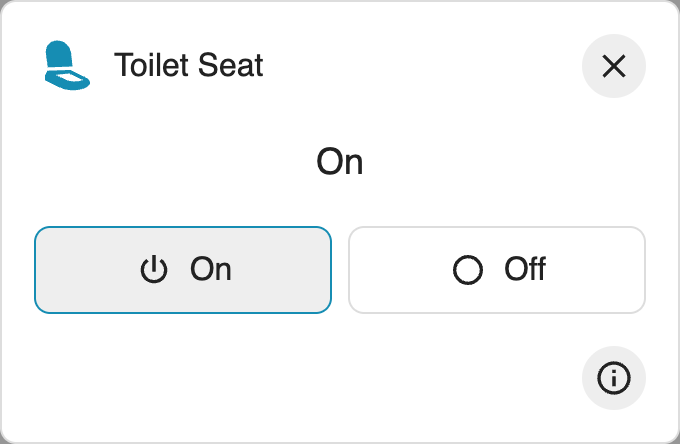
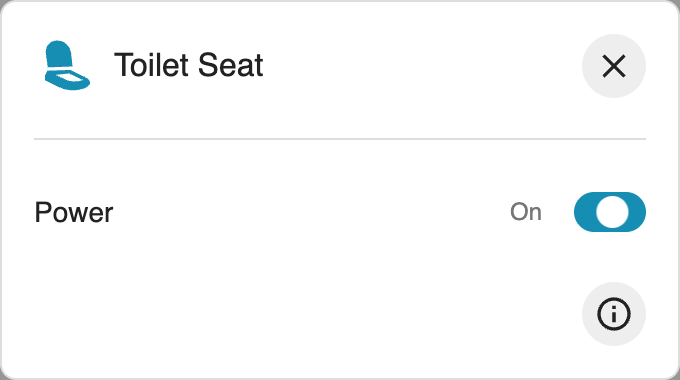
Use compact power-switch details for toilet seat

diff --git a/src/cards/toilet-seat-card.js b/src/cards/toilet-seat-card.js
@@ -14,7 +14,7 @@ class ToiletSeatCard extends HTMLElement {
   state() { return this._hass?.states?.[this.config.entity]?.state; }
   async power(on) {
     const state = this.state();
-    if (typeof on !== "boolean" || !["on", "off", "unknown"].includes(state) || this.pending || !this._hass?.callService) return;
+    if (typeof on !== "boolean" || !["on", "off"].includes(state) || this.pending || !this._hass?.callService) return;
     const entity = this.config.entity;
     this.pending = true; this.error = ""; this.update(); let timer;
     try {
@@ -31,11 +31,10 @@ class ToiletSeatCard extends HTMLElement {
     const status = known ? state === "on" ? "On" : "Off" : state === "unknown" ? "Unknown" : "Unavailable";
     this.shadowRoot.querySelectorAll(".status").forEach(el => { el.textContent = status; });
     this.shadowRoot.querySelectorAll(".device-art").forEach(el => el.classList.toggle("active", state === "on"));
-    for (const button of this.shadowRoot.querySelectorAll("[data-power]")) {
-      button.disabled = !["on", "off", "unknown"].includes(state) || this.pending || !this._hass?.callService;
-      button.setAttribute("aria-pressed", String(known && button.dataset.power === state));
-      button.setAttribute("aria-busy", String(this.pending));
-    }
+    const input = this.shadowRoot.querySelector('[role="switch"]');
+    input.checked = state === "on";
+    input.disabled = !known || this.pending || !this._hass?.callService;
+    input.setAttribute("aria-busy", String(this.pending));
     const error = this.shadowRoot.querySelector('[role="alert"]'); error.textContent = this.error; error.hidden = !this.error;
     this.shadowRoot.querySelector(".more-info").disabled = !this._hass?.states?.[this.config.entity];
   }
@@ -43,14 +42,14 @@ class ToiletSeatCard extends HTMLElement {
     this.shadowRoot.innerHTML = `<style>
       :host{display:block;font-family:var(--paper-font-body1_-_font-family,Roboto,sans-serif);letter-spacing:0;color:var(--primary-text-color,#222)}*{box-sizing:border-box}button{font:inherit;color:inherit;border:0;background:none;cursor:pointer}button:disabled{opacity:.45;cursor:default}button:focus-visible{outline:2px solid var(--primary-color,#03a9f4);outline-offset:-2px}
       .entry{display:flex;align-items:center;gap:12px;width:100%;height:66px;padding:8px 12px;text-align:left;min-width:0;border:1px solid var(--ha-card-border-color,var(--divider-color,#ddd));border-radius:8px;background:var(--ha-card-background,var(--card-background-color,#fff))}.device-art{display:grid;place-items:center;flex-shrink:0;width:32px;height:32px;color:var(--state-icon-color,#999)}.device-art svg{width:28px;height:28px}.device-art.active{color:var(--state-switch-active-color,var(--primary-color,#03a9f4))}.info{flex:1;min-width:0}.name{display:block;font-size:14px;font-weight:500;line-height:16px;white-space:nowrap;overflow:hidden;text-overflow:ellipsis}.status{display:block;font-size:12px;line-height:16px;color:var(--secondary-text-color,#777)}
-      dialog{width:340px;max-width:calc(100vw - 24px);max-height:calc(100dvh - 32px);overflow:auto;border:1px solid var(--divider-color,#ddd);border-radius:8px;padding:16px;background:var(--card-background-color,#fff);color:var(--primary-text-color,#222)}dialog::backdrop{background:#0006}header{display:flex;align-items:center;gap:8px}.title{flex:1;min-width:0;font-size:16px;font-weight:500;overflow-wrap:anywhere}.close,.more-info{width:32px;height:32px;flex-shrink:0;display:grid;place-items:center;border-radius:50%;background:var(--secondary-background-color,#eee)}.detail-status{margin:24px 0;text-align:center;font-size:18px;color:inherit}.power-controls{display:grid;grid-template-columns:1fr 1fr;gap:8px}.power-controls button{display:flex;align-items:center;justify-content:center;gap:8px;min-height:44px;border:1px solid var(--divider-color,#ddd);border-radius:8px}.power-controls button[aria-pressed=true]{background:var(--secondary-background-color,#eee);border-color:var(--primary-color,#03a9f4)}ha-icon{--mdc-icon-size:20px}footer{display:flex;justify-content:flex-end;margin-top:16px}[role=alert]{font-size:12px;color:var(--error-color,#c62828);overflow-wrap:anywhere;margin-top:12px}[hidden]{display:none!important}
-    </style><button class="entry identity" aria-haspopup="dialog"><span class="device-art">${art}</span><span class="info"><span class="name"></span><span class="status"></span></span></button><dialog><header><span class="device-art">${art}</span><span class="title"></span><button class="close" aria-label="Close" title="Close"><ha-icon icon="mdi:close"></ha-icon></button></header><div class="status detail-status"></div><div class="power-controls" role="group" aria-label="Power"><button data-power="on" aria-label="Turn on"><ha-icon icon="mdi:power"></ha-icon>On</button><button data-power="off" aria-label="Turn off"><ha-icon icon="mdi:power-off"></ha-icon>Off</button></div><div role="alert" hidden></div><footer><button class="more-info" aria-label="More information" title="More information"><ha-icon icon="mdi:information-outline"></ha-icon></button></footer></dialog>`;
+      dialog{width:340px;max-width:calc(100vw - 24px);max-height:calc(100dvh - 32px);overflow:auto;border:1px solid var(--divider-color,#ddd);border-radius:8px;padding:16px;background:var(--card-background-color,#fff);color:var(--primary-text-color,#222)}dialog::backdrop{background:#0006}header{display:flex;align-items:center;gap:8px}.title{flex:1;min-width:0;font-size:16px;font-weight:500;overflow-wrap:anywhere}.close,.more-info{width:32px;height:32px;flex-shrink:0;display:grid;place-items:center;border-radius:50%;background:var(--secondary-background-color,#eee)}.power-row{display:flex;align-items:center;gap:16px;min-height:60px;margin-top:20px;padding-top:12px;border-top:1px solid var(--divider-color,#ddd);font-size:14px;cursor:pointer}.power-label{flex:1;min-width:0}.power-row input{appearance:none;position:relative;flex-shrink:0;width:36px;height:20px;border:0;border-radius:10px;background:var(--disabled-color,#aaa);margin:0;cursor:pointer}.power-row input:before{content:"";position:absolute;width:16px;height:16px;left:2px;top:2px;border-radius:50%;background:#fff;transition:transform .15s}.power-row input:checked{background:var(--primary-color,#03a9f4)}.power-row input:checked:before{transform:translateX(16px)}.power-row input:disabled{opacity:.45;cursor:default}.power-row input:focus-visible{outline:2px solid var(--primary-color,#03a9f4);outline-offset:2px}ha-icon{--mdc-icon-size:20px}footer{display:flex;justify-content:flex-end;margin-top:12px}[role=alert]{font-size:12px;color:var(--error-color,#c62828);overflow-wrap:anywhere;margin-top:12px}[hidden]{display:none!important}@media(prefers-reduced-motion:reduce){.power-row input:before{transition:none}}
+    </style><button class="entry identity" aria-haspopup="dialog"><span class="device-art">${art}</span><span class="info"><span class="name"></span><span class="status"></span></span></button><dialog><header><span class="device-art">${art}</span><span class="title"></span><button class="close" aria-label="Close" title="Close"><ha-icon icon="mdi:close"></ha-icon></button></header><label class="power-row"><span class="power-label">Power</span><span class="status" aria-live="polite"></span><input type="checkbox" role="switch" aria-label="Power"></label><div role="alert" hidden></div><footer><button class="more-info" aria-label="More information" title="More information"><ha-icon icon="mdi:information-outline"></ha-icon></button></footer></dialog>`;
     const dialog = this.shadowRoot.querySelector("dialog"), name = this.config.name || "Toilet Seat";
     for (const selector of [".name", ".title"]) { const el = this.shadowRoot.querySelector(selector); el.textContent = name; el.title = name; }
     dialog.setAttribute("aria-label", name);
     this.shadowRoot.querySelector(".identity").onclick = () => dialog.showModal();
     this.shadowRoot.querySelector(".close").onclick = () => dialog.close();
-    this.shadowRoot.querySelectorAll("[data-power]").forEach(el => { el.onclick = () => this.power(el.dataset.power === "on"); });
+    this.shadowRoot.querySelector('[role="switch"]').onchange = event => this.power(event.target.checked);
     this.shadowRoot.querySelector(".more-info").onclick = () => {
       dialog.close();
       this.dispatchEvent(new CustomEvent("hass-more-info", { detail: { entityId: this.config.entity }, bubbles: true, composed: true }));

diff --git a/README.md b/README.md
@@ -13,10 +13,10 @@ The Plant Monitor screenshot below shows live Home Assistant readings.
 ### Toilet Seat
 
 `custom:toilet-seat-card` wraps a real power switch in a compact device tile
-with a monochrome seat silhouette. Open it for explicit On/Off commands and
-native entity history. Unknown stays Unknown until HA reports a state;
-explicit commands remain available for an online switch with unknown state.
-Unavailable/missing entities disable power controls. Pending requests block
+with a monochrome seat silhouette. Open its compact dialog for a single Power
+row with live state and a switch, plus native entity history at the bottom right.
+Unknown stays Unknown until HA reports a state; unknown, unavailable and missing
+entities disable the switch instead of presenting a guessed power state. Pending requests block
 duplicates, errors are visible, and requests time out after 15 seconds.
 No temperature, lid, occupancy or heating capabilities are inferred.
 
